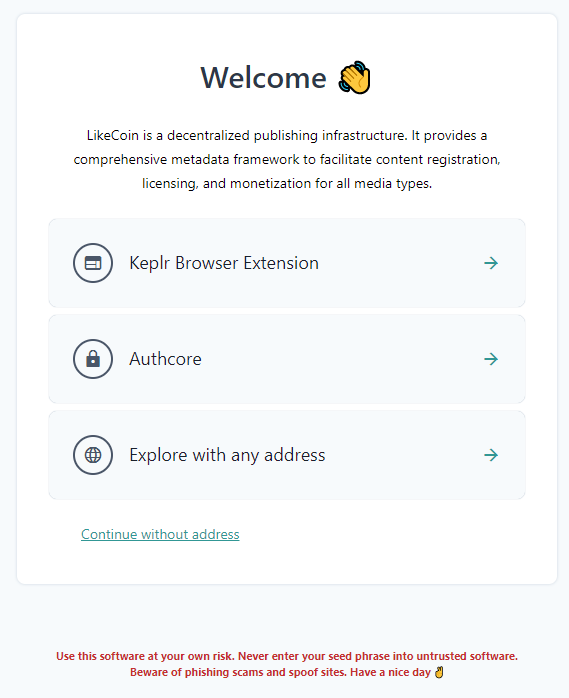
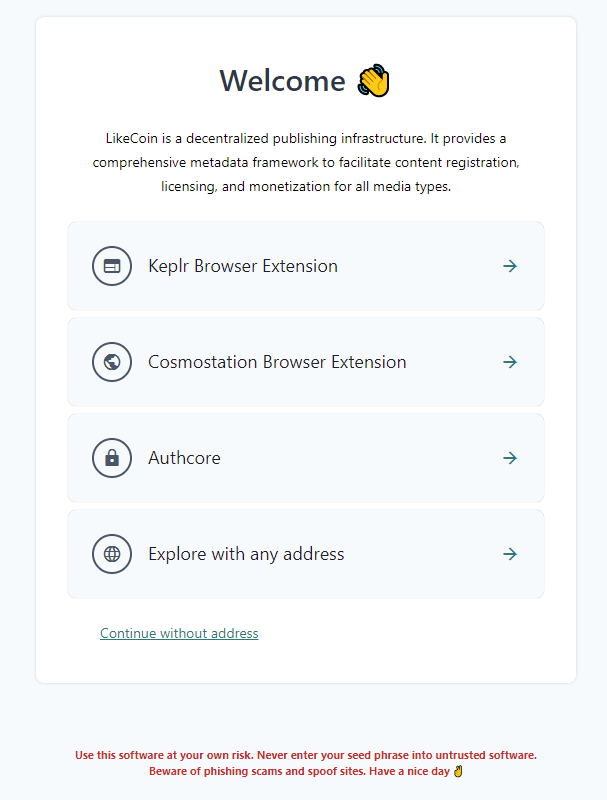
GitBook: [#4025] Delegation of LikeCoin

diff --git a/general-guides/stake/delegation-of-likecoin.md b/general-guides/stake/delegation-of-likecoin.md
@@ -14,7 +14,7 @@ Delegation means delegating LikeCoin to one or more [validators](../governance/w
 
 Delegation demonstrates [liquid democracy](../governance/liquid-democracy.md) and is vital to the autonomy for the LikeCoin DAO.
 
-There are multiple ways to stake LikeCoin, we suggest using [dao.like.com](https://dao.like.co/welcome). You may also want to manage your LikeCoin with:
+There are multiple ways to stake LikeCoin, we suggest using [dao.like.co](https://dao.like.co/welcome). You may also want to manage your LikeCoin with:
 
 * Omniflix: [https://likecoin.omniflix.co/](https://likecoin.omniflix.co/)
 * BitSong: [https://wallet.bitsong.io/](https://wallet.bitsong.io/)
@@ -22,13 +22,13 @@ There are multiple ways to stake LikeCoin, we suggest using [dao.like.com](https
 
 ## Delegate via dao.like.co
 
-Checkout the below tutorial clip for staking via dao.like.co.
+Checkout the below tutorial clip for staking via [dao.like.co](https://dao.like.co/welcome).
 
 {% embed url="https://youtu.be/7soCRDCGYCw" %}
 
 ### Step 1: Login dao.like.co
 
-Go to [dao.like.co](https://dao.like.co/) and select [Keplr Browser Extension](broken-reference) or [Authcore](../../user-guide/liker-id/register/) to login.
+Go to [dao.like.co](https://dao.like.co/) and select [Keplr Browser Exte](broken-reference)nsion, Cosmostation or [Authcore](../../user-guide/liker-id/register/) to login.
 
 ![](<../../.gitbook/assets/Civic Liker Web 3-01.png>)
 

diff --git a/general-guides/wallet/wallet-address.md b/general-guides/wallet/wallet-address.md
@@ -24,6 +24,6 @@ Click "Receive", then click "Copy" below the QR code to copy the wallet address.
 
 ### Liker Land web
 
-Login to [Liker Land web](https://liker.land/), click on the menu on the top right hand corner and choose "Settings", then click Liker ID and you will see your wallet address. You can also directly click [https://like.co/in/settings](https://like.co/in/settings) to check.
+Login to [Liker Land web](https://liker.land/) and directly click [https://like.co/in/settings](https://like.co/in/settings) to check it.
 
 ![](<../../.gitbook/assets/wallet address-en (1).png>)

diff --git a/user-guide/civic-liker/be-a-civic-liker.md b/user-guide/civic-liker/be-a-civic-liker.md
@@ -24,7 +24,7 @@ Civic Liker not only can distribute the delegation rewards, but also distribute 
 
 Go to [dao.like.co](https://dao.like.co/) and select [Keplr Browser Extension](broken-reference) or [Authcore](../liker-id/register/) to login to the wallet address bind with a Liker ID
 
-![](<../../.gitbook/assets/Civic Liker Web 3-01.png>)
+![](broken-reference)
 
 ### Step 2: Select Civic Liker node&#xD;
 
